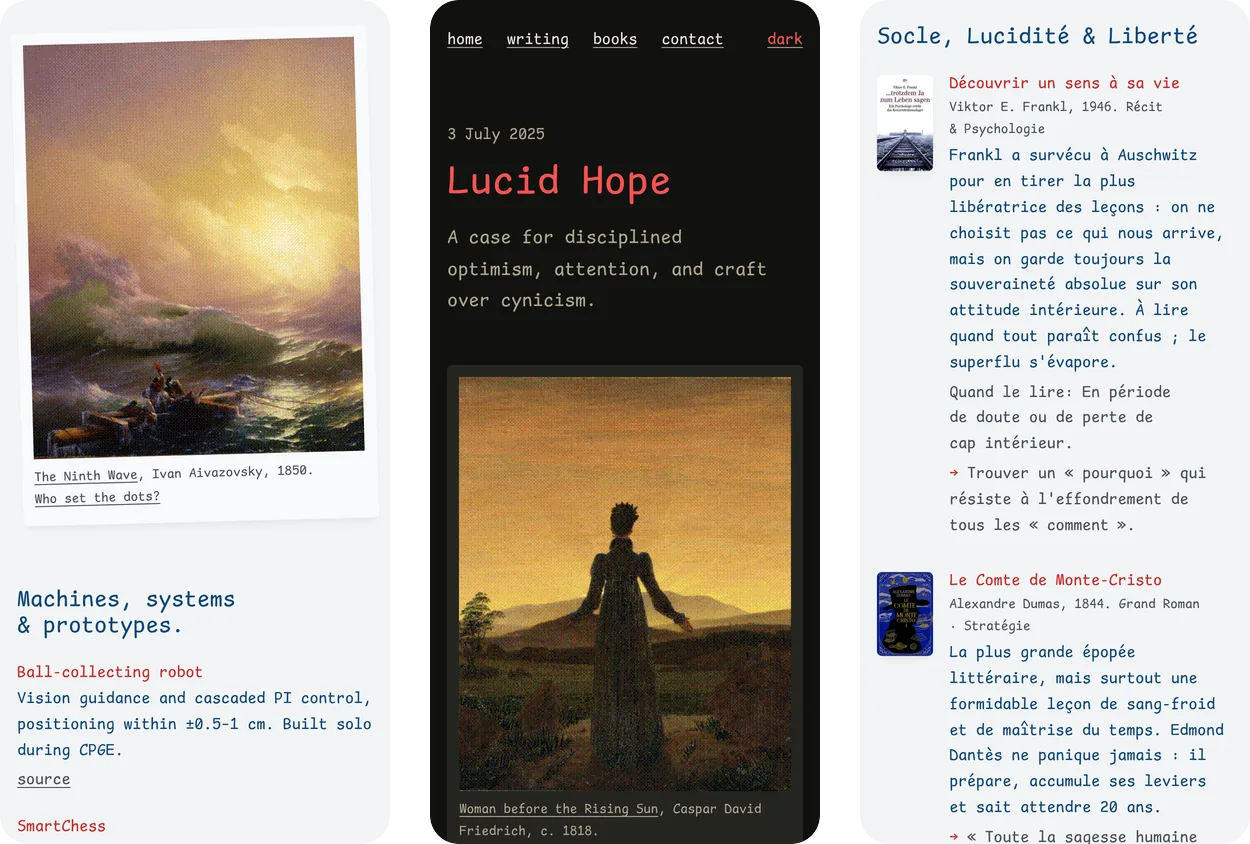
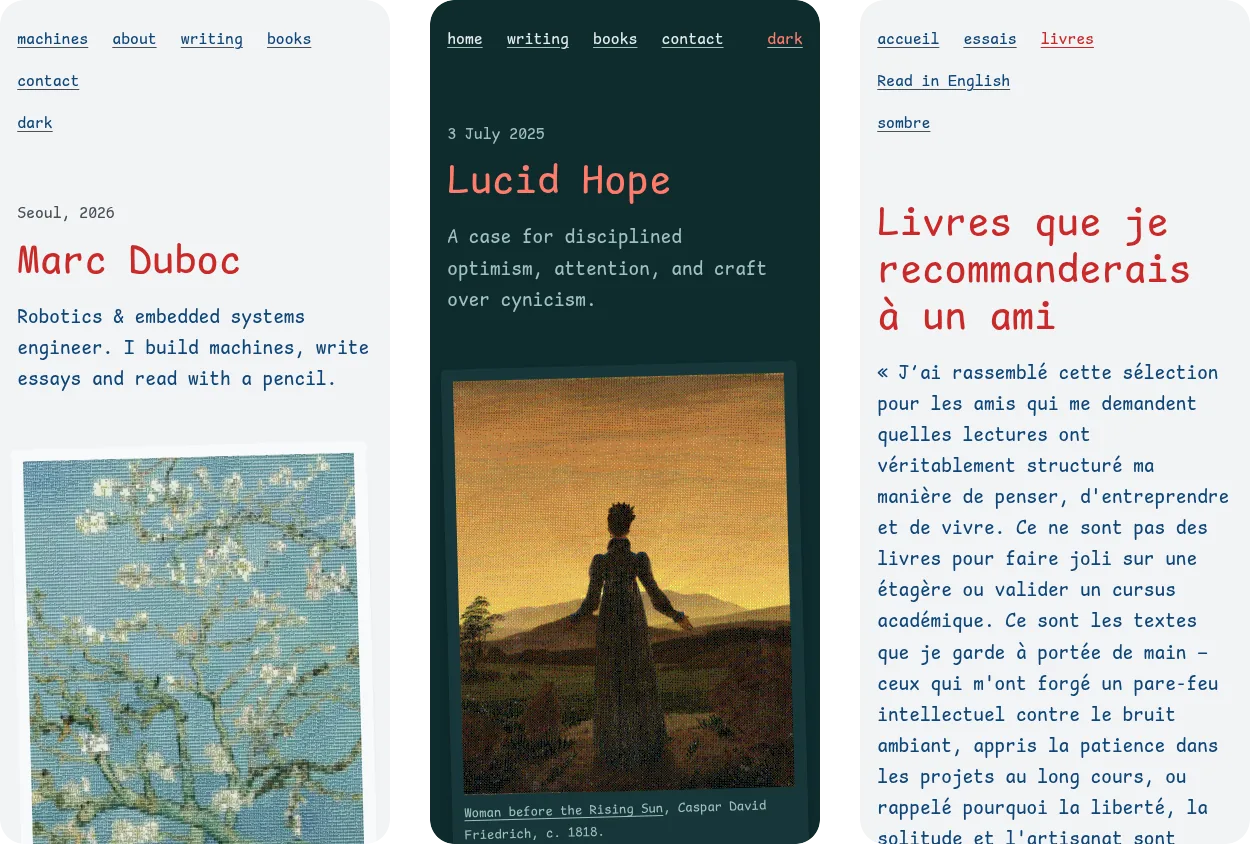
docs: v2.1.2, new screenshots, weight measured again
- README: the homepage, themes, essay, phones and paintings screenshots
  retaken (they still showed The Ninth Wave); the almond tree in the
  gallery, the features and the credits; the dark theme described.
- Weight and Lighthouse measured again: the painting in letters weighs
  200 to 556 KB, so mobile performance is 98, desktop 100.
- CHANGELOG.md: 2.1.2.

diff --git a/README.md b/README.md
@@ -9,31 +9,31 @@ python3 -m http.server 8000   # then open http://localhost:8000
 [![Website](https://img.shields.io/badge/website-promaa.tech-c92a2a?style=flat-square)](https://promaa.tech)
 [![Deploy](https://img.shields.io/github/actions/workflow/status/promaaa/personal-website/deploy.yml?branch=main&style=flat-square&label=deploy)](https://github.com/promaaa/personal-website/actions/workflows/deploy.yml)
 [![Release](https://img.shields.io/github/v/release/promaaa/personal-website?style=flat-square)](https://github.com/promaaa/personal-website/releases)
-![Lighthouse](https://img.shields.io/badge/lighthouse-100%20%C2%B7%20100%20%C2%B7%20100%20%C2%B7%20100-2ea44f?style=flat-square)
+![Lighthouse](https://img.shields.io/badge/lighthouse-98%20%C2%B7%20100%20%C2%B7%20100%20%C2%B7%20100-2ea44f?style=flat-square)
 
 Plain HTML, CSS and a few kilobytes of vanilla JavaScript, served by GitHub Pages straight from `main`. No framework, no build step, no tracker, no cookie. Every page reads fine with JavaScript off.
 
-![The homepage on a wide screen: Aivazovsky's The Ninth Wave, redrawn in coloured dots, fills the left half; on the right, Marc Duboc in red and the text in blue ink](.github/readme/home.webp)
+![The homepage on a wide screen: Van Gogh's Almond Blossom, redrawn in small coloured letters, fills the left half; on the right, Marc Duboc in red and the text in blue ink](.github/readme/home.webp)
 
 ## Gallery
 
 | Preview | What it shows |
 | --- | --- |
-| ![The homepage in the light theme and in the dark theme, side by side](.github/readme/themes.webp) | **By day, by lamplight.** Blue ink on paper, or parchment on a warm black. The theme follows the system, and the toggle remembers your choice. |
+| ![The homepage in the light theme and in the dark theme, side by side](.github/readme/themes.webp) | **By day, by night.** Blue ink on paper, or blossom white on the deep teal of the almond tree's sky. The theme follows the system, and the toggle remembers your choice. |
 | ![Three phones: the homepage with its tilted postcard, an essay in the dark theme, and the French shelf](.github/readme/phones.webp) | **On a phone** the painting becomes a postcard slipped into the letter. Essays and the shelf keep one readable column. |
 | ![An essay in the dark theme: Friedrich's Woman at a Window held still on the left while the text runs on the right](.github/readme/essay.webp) | **Essays** keep their painting still on the left while the text scrolls, with previous and next links at the end. |
-| ![Seven paintings in a row: The Ninth Wave, The Monk by the Sea, Woman before the Rising Sun, Woman at a Window, The Tower of Babel, Max Schmitt in a Single Scull, and Hokusai's whale in blue ink](.github/readme/paintings.webp) | **One painting per page**: an ASCII manta on the homepage, and on the other pages public-domain paintings by Friedrich, Bruegel, Eakins and Hokusai, redrawn in dots. Each one weighs 40 to 100 KB. |
+| ![Seven paintings in a row: Almond Blossom in letters, The Monk by the Sea, Woman before the Rising Sun, Woman at a Window, The Tower of Babel, Max Schmitt in a Single Scull, and Hokusai's whale in blue ink](.github/readme/paintings.webp) | **One painting per page**: Van Gogh's almond tree in letters on the homepage, and on the other pages public-domain paintings by Friedrich, Bruegel, Eakins and Hokusai, redrawn in dots. Each dot painting weighs 40 to 100 KB. |
 | ![The bookshelf searched for dumas: one book left, The Count of Monte Cristo](.github/readme/search.webp) | **The shelf** lists twenty-one books in English and French as static HTML. The search narrows it as you type. |
 | ![First page of the reading guide PDF, in the same blue and red monospace](.github/readme/guide.webp) | **Reading guides**: the same shelf typeset as a PDF with XeLaTeX, generated from the same JSON. |
 
 ## Features
 
 - **Diptych layout**: on a wide, landscape screen the painting holds the left half while the text scrolls on the right. Phones and upright tablets get a postcard instead, never taller than the screen. On ultra-wide screens the panel stops at 95% of the height and the text is centred in the space left.
-- **Paintings in dots**: public-domain paintings redrawn as 400×500 dots with an ordered dither, saved as lossless WebP at 2×, 3× and 4×. Each page sets the painting's focal point, so the panel crops around the subject at any screen ratio.
+- **Paintings in dots**: public-domain paintings redrawn as 400×500 dots with an ordered dither, saved as lossless WebP at 2×, 3× and 4×. Each page sets the painting's focal point, so the panel crops around the subject at any screen ratio. The homepage's painting is drawn in letters instead: 150 × 125 cells of Comic Shanns Mono on a pale wash of the painting's colours.
 - **One family, one weight**: Comic Shanns Mono, standing in for Comic Code. Hierarchy comes from size and colour only: blue ink, and a red for what matters.
 - **Light and dark**: both themes are designed, not inverted. Theme switches never animate.
 - **Bilingual shelf**: `/books/` and `/books/fr/` are generated from `books/books-en.json` and `books/books-fr.json`, the single source that also feeds the PDF guides.
-- **Fast**: the homepage weighs 95 KB in all: about 13 KB of HTML, CSS and JavaScript (gzipped), one 15 KB font and a 50 KB painting. The painting is preloaded and picked from `srcset` by the panel's real size. Links prerender on hover with Speculation Rules.
+- **Fast**: about 13 KB of HTML, CSS and JavaScript (gzipped) and one 15 KB font. The homepage painting, in letters, is the heavy part: 200, 370 or 556 KB, picked from `srcset` by the panel's real size, so the homepage weighs about 230 KB on a 1× laptop and 400 KB on a 3× phone. The painting is preloaded. Links prerender on hover with Speculation Rules.
 - **Accessible**: skip link, visible focus, 44 px targets, landmarks for screen readers, reduced motion respected. Contrast is checked in both themes with axe.
 - **Works without JavaScript**: every page and both shelves are plain HTML. Script adds the theme toggle, the search and the copy button on top.
 - **Prints cleanly**: a print stylesheet turns any page into a plain letter.
@@ -167,7 +167,7 @@ magick source.jpg -crop 2064x2580+810+0 +repage crop.png
 `assets/css/tokens.css` is the single source of every design value: colour, type scale, space, radius, shadow, easing, duration, plus a block for print. Components in `assets/css/site.css` only read them through `var()`.
 
 - **Type and space**: fluid `clamp()` scales from [Utopia](https://utopia.fyi), 16 to 18 px between 320 and 1440 px viewports.
-- **Colour**: [Open Props](https://open-props.style) values. Light is blue ink on paper with a red accent. Dark reads the same letter by lamplight: parchment text on a warm black, with the same red for what matters.
+- **Colour**: [Open Props](https://open-props.style) values, and a teal sampled from the homepage painting. Light is blue ink on paper with a red accent. Dark reads the same letter at night under the almond tree: blossom-white text on the deep teal of its sky, with a coral red for what matters.
 - **Motion**: three tokens, curves from [Kinetics](https://kinetics.colorion.co) sampled into `linear()`. Reduced motion shortens or removes all of them.
 - **Breakpoint**: one, at `56rem` on a screen at least 5:4 wide, where the painting becomes a fixed panel `--panel-width` wide. Media queries cannot read custom properties, so the query is written in `site.css` and in each image's `sizes`, and documented in `tokens.css`.
 
@@ -191,7 +191,7 @@ Changes land through pull requests and are recorded in [CHANGELOG.md](CHANGELOG.
 ## Credits
 
 - **Font**: [Comic Shanns Mono](https://github.com/jesusmgg/comic-shanns-mono) by Shannon Miwa and Jesus Gonzalez, under the MIT licence ([LICENSE](assets/fonts/LICENSE-comic-shanns-mono.md)). A middle dot glyph was added for this site.
-- **Homepage**: an ASCII manta ray, artist unknown, as a blue ink duotone.
+- **Homepage**: [*Almond Blossom*](https://commons.wikimedia.org/wiki/File:Vincent_van_Gogh_-_Almond_blossom_-_Google_Art_Project.jpg), Vincent van Gogh, 1890, in the public domain, redrawn in letters for this site.
 - **Paintings** on the other pages, all in the public domain, redrawn in dots for this site:
   - [*The Monk by the Sea*](https://commons.wikimedia.org/wiki/File:Caspar_David_Friedrich_-_Der_M%C3%B6nch_am_Meer_-_Google_Art_Project.jpg), Caspar David Friedrich, 1808–1810;
   - [*Woman before the Rising Sun*](https://commons.wikimedia.org/wiki/File:Caspar_David_Friedrich_-_Frau_vor_untergehender_Sonne.jpg), Caspar David Friedrich, c. 1818;

diff --git a/CHANGELOG.md b/CHANGELOG.md
@@ -10,6 +10,14 @@ Each release is a git tag (`vX.Y.Z`) on `main`. Work lands through pull requests
 
 ## [Unreleased]
 
+## [2.1.2] - 2026-10-07
+
+### Changed
+- Homepage painting: Van Gogh's *Almond Blossom* (1890, public domain), redrawn in 150 × 125 letters of Comic Shanns Mono on a pale wash, replaces the ASCII manta. The social card follows.
+- Dark theme: the same letter read at night under the almond tree. Deep teal paper (`--teal-12`), blossom-white text, a coral red accent, all sampled from the painting; the warm black and parchment are gone. The dark `theme-color` follows on every page.
+- The Galt door reads *Who set the type?*, and its note credits Van Gogh.
+- README: every screenshot of the homepage and of the dark theme retaken; weight and Lighthouse numbers measured again (the painting in letters weighs 200 to 556 KB, mobile performance 98).
+
 ## [2.1.1] - 2026-10-02
 
 ### Changed
